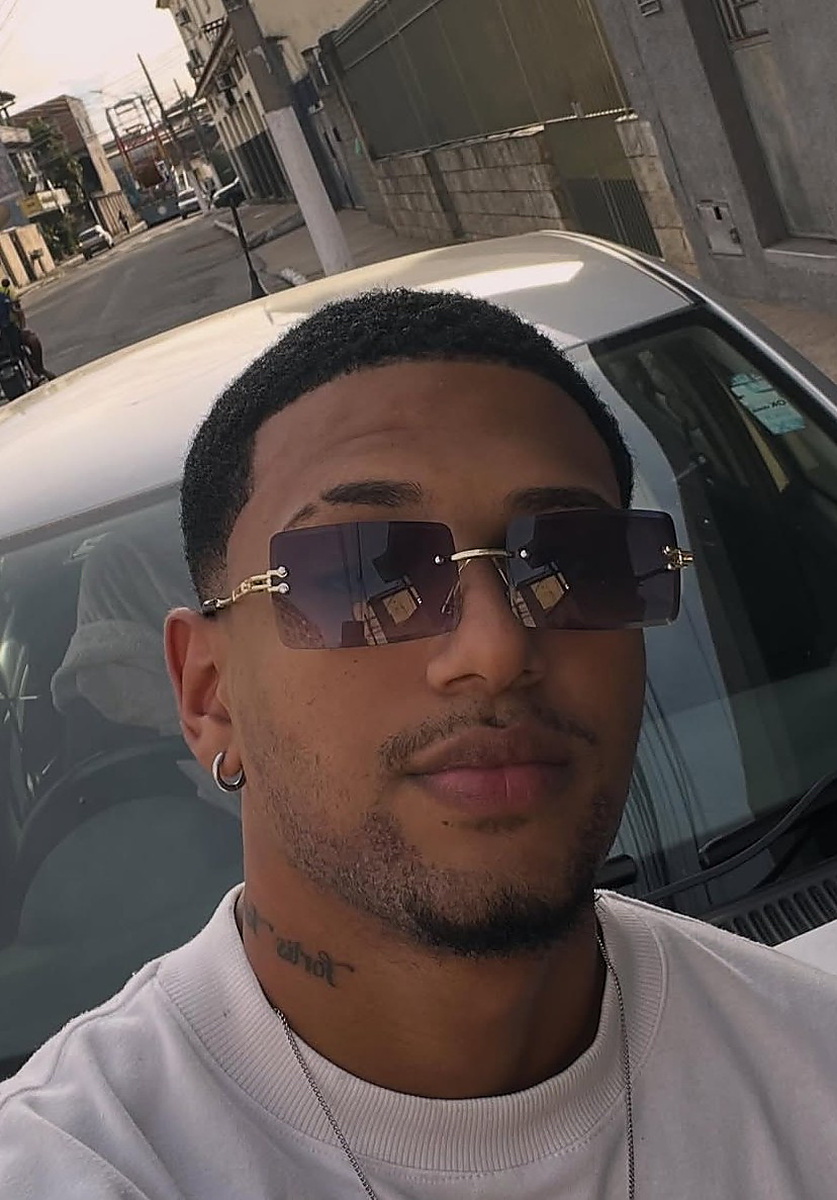
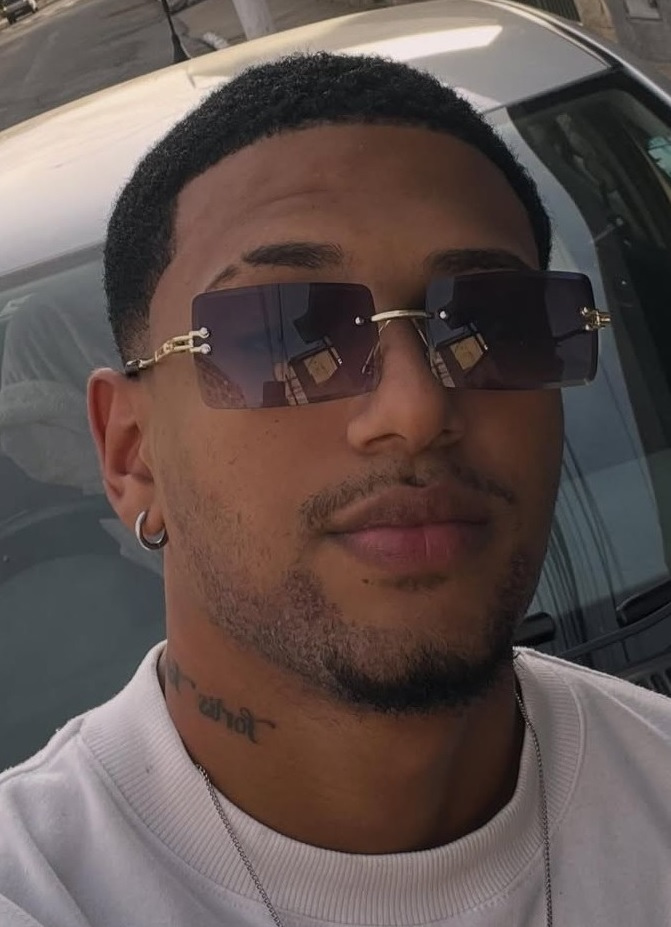
Teste vfinal

diff --git a/README.md b/README.md
@@ -1,16 +1,21 @@
-# Casamento T&L — FINAL FOTOS HD
+# Casamento T&L — ÚLTIMA VERSÃO ANTES DO MERCADO PAGO
 
-Base: versão finalíssima aprovada.
+Base: versão final com fotos HD.
 
-## Tratamento aplicado
-- nenhuma fotografia foi recriada;
-- nenhuma pessoa, rosto, roupa ou fundo foi alterado;
-- enquadramentos originais preservados;
-- fotos principais regravadas em JPEG de alta qualidade com nitidez conservadora;
-- fotos pequenas dos padrinhos receberam ampliação proporcional de resolução e nitidez;
-- PNGs dos padrinhos foram preservados como PNG;
-- Daniel recebeu apenas ajuste de `object-position` no mobile para melhorar a centralização;
-- estrutura, textos, menu e layout permanecem iguais à versão finalíssima.
+## Alterações desta versão
+Foram substituídas somente três fotos de padrinhos:
+
+- **Caíque** → nova foto enviada;
+- **Daniel** → nova foto enviada;
+- **Lisandro** → nova foto enviada.
+
+Os nomes, pares, estrutura, textos, navegação, versão mobile, desktop,
+botão TOPO, convite do WhatsApp e demais fotografias permanecem iguais.
+
+O ajuste de centralização do Daniel no mobile continua ativo via CSS.
+
+## Próxima etapa
+Após publicar e conferir esta versão, seguir para a integração do Mercado Pago.
 
 Commit sugerido:
-`Final - tratamento HD das fotos`
+`Final pre Mercado Pago - atualiza fotos de padrinhos`
